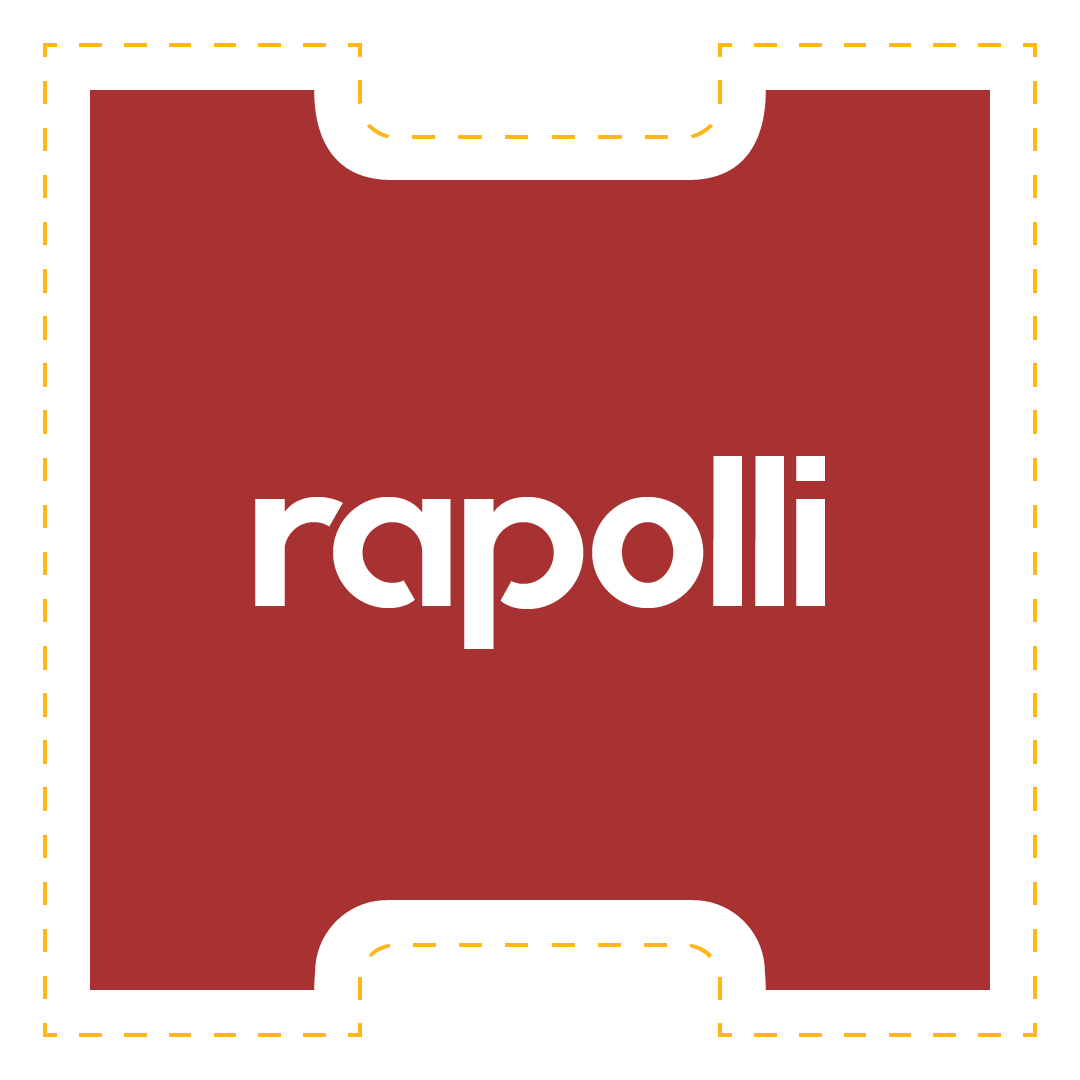
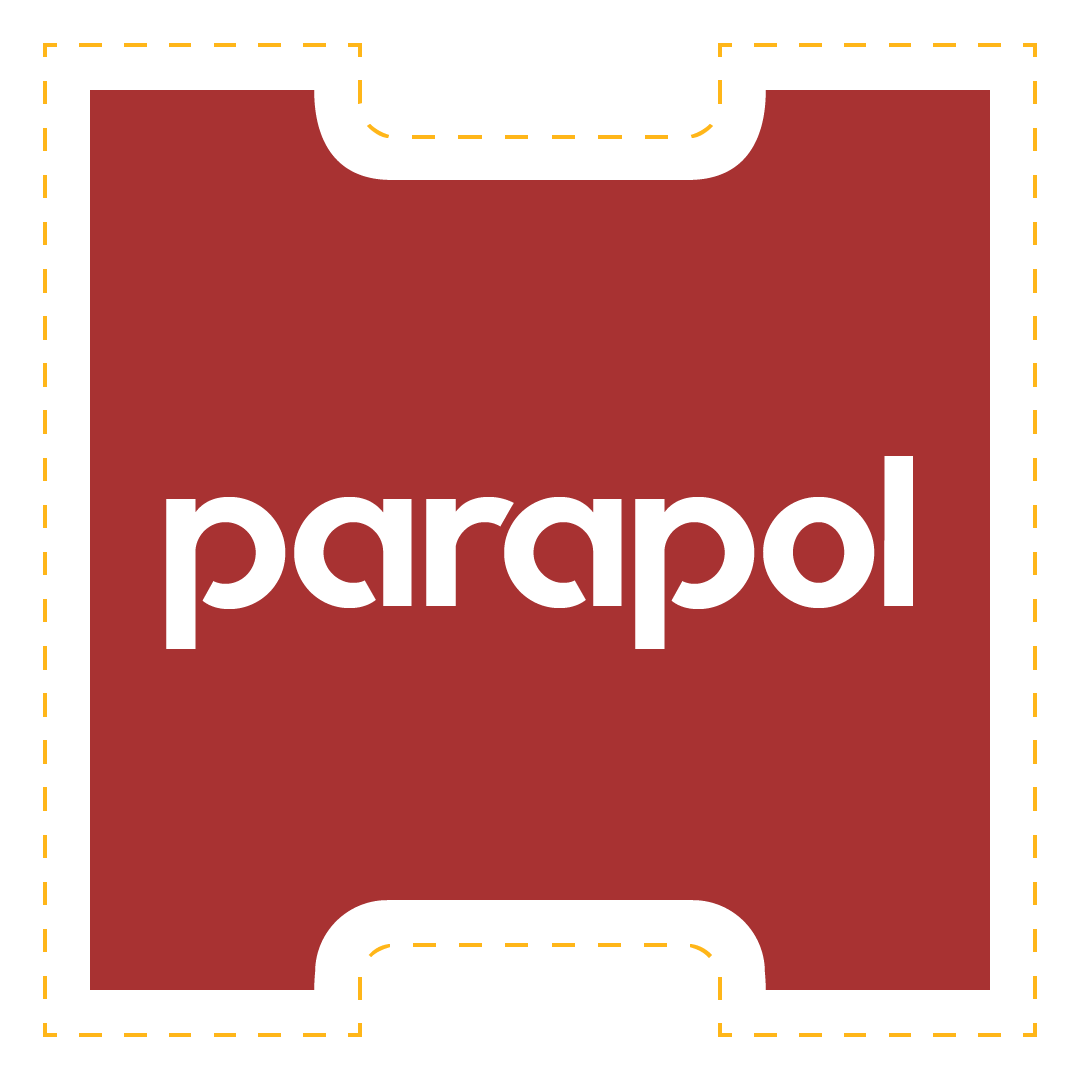
Updated from rapolli to parapol.ph

Changed region(s): [[0.1528, 0.3972, 0.8556, 0.6111]]

diff --git a/config/environments/production.rb b/config/environments/production.rb
@@ -60,7 +60,7 @@ Rails.application.configure do
 
   # Use a real queuing backend for Active Job (and separate queues per environment).
   # config.active_job.queue_adapter     = :resque
-  # config.active_job.queue_name_prefix = "rapolli_waitlist_production"
+  # config.active_job.queue_name_prefix = "parapol_waitlist_production"
 
   config.action_mailer.perform_caching = false
 

diff --git a/config/application.rb b/config/application.rb
@@ -3,7 +3,7 @@ require "rails/all"
 
 Bundler.require(*Rails.groups)
 
-module RapolliWaitlist
+module ParapolWaitlist
   class Application < Rails::Application
     config.load_defaults 6.1
 

diff --git a/README.md b/README.md
@@ -1,13 +1,13 @@
-# Rapolli - Waitlist Campaign
+# Parapol - Waitlist Campaign
 
-[https://www.rapolli.com](https://www.rapolli.com)
+[https://www.parapol.ph](https://www.parapol.ph)
 
 ## Install
 
 ### Clone the repository
 
 ```shell
-git clone git@github.com:youngestbllnr/rapolli-waitlist.git
+git clone git@github.com:youngestbllnr/parapol-waitlist.git
 cd project
 ```
 
